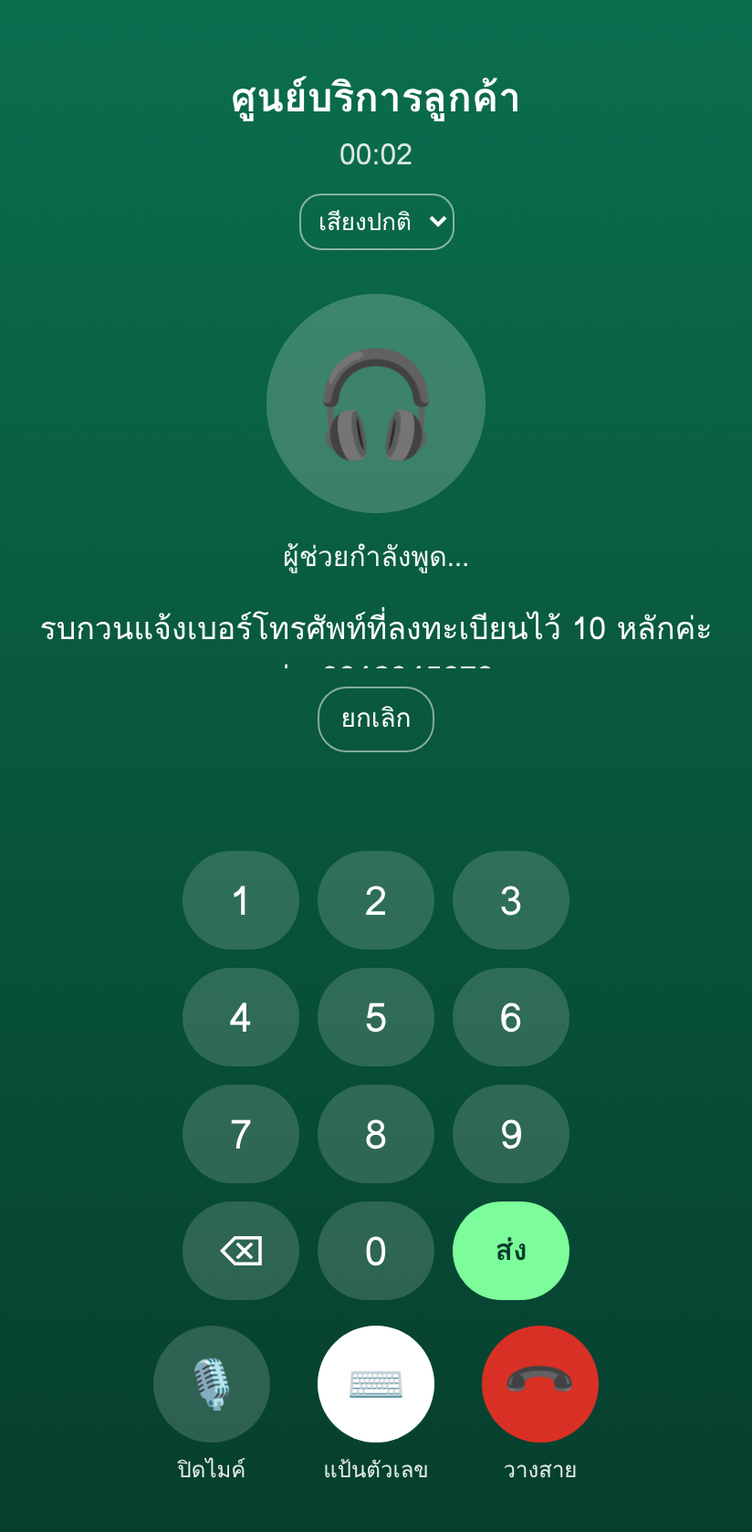
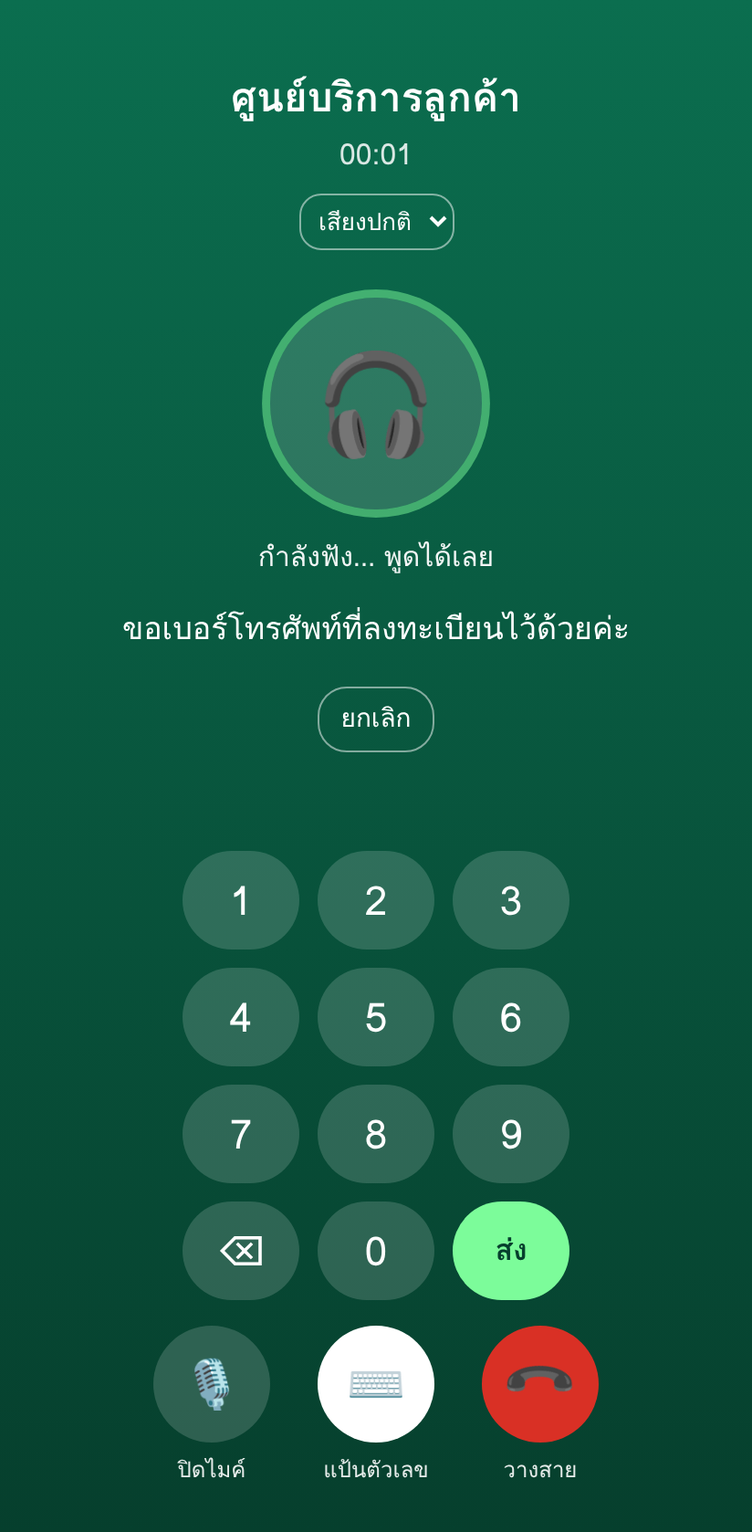
Shorter, more natural replies; no examples
Every reply rewritten the way a Thai call-center agent says it:
- greeting: "สวัสดีค่ะ บริษัท ตัวอย่าง จำกัด ยินดีให้บริการค่ะ ดิฉันเป็นผู้ช่วยอัตโนมัติ
  มีอะไรให้ช่วยคะ" (still says it is automated); no menu of examples
- prompts without "เช่น ...": "ขอเบอร์โทรศัพท์ที่ลงทะเบียนไว้ด้วยค่ะ"
- dates without the year when near ("15 ธันวาคม"); hours as people say
  them ("8 โมงเช้าถึง 2 ทุ่ม"); payment channels in one sentence
- order status in one line; the tracking code is shown but not read out
- call screen: "ยังอยู่ในสายไหมคะ" and a short goodbye
- speech: no pause right before ค่ะ/คะ/ครับ

Claude-Session: https://claude.ai/code/session_013CGzXzACjiugzPnevvmLpy

diff --git a/channels/webchat/static/index.html b/channels/webchat/static/index.html
@@ -550,10 +550,7 @@ async function runCall() {
   let reply = await call("api/start", {});
   // The bot's own wording tells us its voice: ครับ or ค่ะ/คะ.
   const [p, q] = reply.text.includes("ครับ") ? ["ครับ", "ครับ"] : ["ค่ะ", "คะ"];
-  const options = (reply.quick_replies || []).filter(x => !x.includes("เจ้าหน้าที่"));
-  const invite = ` พูดได้เลย${p} เช่น ${options.join(" ")} หรือคุยกับเจ้าหน้าที่`;
-  const spokenInvite = `. พูดได้เลย${p}. เช่น ${options.join(", ")}, หรือคุยกับเจ้าหน้าที่`;
-  let speech = { text: reply.text + invite, speech: reply.speech + spokenInvite };
+  let speech = reply;
   let silence = 0;
   add(speech.text, "bot");
   // A line the call itself adds: a pause after each sentence, like the bot's own replies.
@@ -578,9 +575,9 @@ async function runCall() {
     if (!msg) {                                  // silence
       if (muted || !keypad.hidden) continue;     // typing on the keypad is not silence
       silence++;
-      if (silence === 2) speech = line(`ยังอยู่ในสายไหม${q} ถ้าต้องการให้ช่วยเรื่องใด พูดได้เลย${p}`);
+      if (silence === 2) speech = line(`ยังอยู่ในสายไหม${q}`);
       if (silence >= 3) {
-        await say(line(`ไม่ได้ยินเสียง ขออนุญาตวางสายก่อน${p} ขอบคุณที่ติดต่อ${p}`));
+        await say(line(`ไม่ได้ยินเสียงเลย ขอวางสายก่อนนะ${q} ขอบคุณ${p}`));
         return hangUp();
       }
       continue;

diff --git a/callcenter_bot/bot.py b/callcenter_bot/bot.py
@@ -88,8 +88,8 @@ class Bot:
             return reply
 
     def welcome(self) -> Reply:
-        return Reply(f"สวัสดี{P} ยินดีต้อนรับสู่ศูนย์บริการลูกค้า {config.BRAND} "
-                     f"{ME}เป็นผู้ช่วยอัตโนมัติ ต้องการให้ช่วยเรื่องใด{Q}",
+        return Reply(f"สวัสดี{P} {config.BRAND} ยินดีให้บริการ{P} {ME}เป็นผู้ช่วยอัตโนมัติ "
+                     f"มีอะไรให้ช่วย{Q}",
                      config.MAIN_MENU, "greeting")
 
     def reset(self, session_id: str):
@@ -99,14 +99,14 @@ class Bot:
     # ---- turn logic ---------------------------------------------------------------------
     def _reply(self, s: Session, session_id: str, message: str) -> Reply:
         if not normalize(message):
-            return Reply(f"บอกสิ่งที่ต้องการให้ช่วยได้เลย{P}", config.MAIN_MENU)
+            return Reply(f"มีอะไรให้ช่วย{Q}", config.MAIN_MENU)
 
         intent, _ = detect(message)
         if intent == "agent":
             return self._handoff(s)
         if s.flow and is_cancel(message):
             s.leave_flow()
-            return Reply(f"ยกเลิกรายการแล้ว{P} มีเรื่องอื่นให้ช่วยไหม{Q}", config.MAIN_MENU, "cancel")
+            return Reply(f"ยกเลิกให้แล้ว{P} มีอะไรให้ช่วยอีกไหม{Q}", config.MAIN_MENU, "cancel")
         if s.flow:
             reply = self._continue_flow(s, message, intent)
             if reply:
@@ -132,17 +132,17 @@ class Bot:
             return None
         s.retries += 1
         if s.retries > config.MAX_MISUNDERSTOOD:
-            return Reply(f"ขออภัย{P} {ME}ยังไม่ได้ข้อมูลที่ต้องการ ต้องการคุยกับเจ้าหน้าที่ไหม{Q}",
+            return Reply(f"ขออภัย{P} ให้เจ้าหน้าที่ช่วยดูต่อไหม{Q}",
                          ["คุยกับเจ้าหน้าที่", "ยกเลิก"], s.flow)
         return self._ask(s)
 
     def _ask(self, s: Session) -> Reply:
         prompts = {
-            "need_phone": f"รบกวนแจ้งเบอร์โทรศัพท์ที่ลงทะเบียนไว้ 10 หลัก{P} เช่น 0812345678",
-            "need_id4": f"เพื่อยืนยันตัวตน รบกวนแจ้งเลข 4 ตัวท้ายของบัตรประชาชน{P}",
-            "need_order": f"รบกวนแจ้งเลขคำสั่งซื้อ 6 หลัก{P} เช่น 123456",
-            "need_problem": f"รบกวนเล่าอาการหรือปัญหาที่พบสั้น ๆ {P} เช่น อินเทอร์เน็ตหลุดบ่อยตั้งแต่เมื่อวาน",
-            "confirm_problem": f"รบกวนตอบ ใช่ หรือ ไม่ใช่{P}",
+            "need_phone": f"ขอเบอร์โทรศัพท์ที่ลงทะเบียนไว้ด้วย{P}",
+            "need_id4": f"ขอเลขบัตรประชาชน 4 ตัวท้าย เพื่อยืนยันตัวตนด้วย{P}",
+            "need_order": f"ขอเลขคำสั่งซื้อ 6 หลักด้วย{P}",
+            "need_problem": f"เล่าปัญหาที่พบให้ฟังหน่อย{P}",
+            "confirm_problem": f"ใช่ หรือไม่ใช่{Q}",
         }
         quick = ["ใช่", "ไม่ใช่"] if s.step == "confirm_problem" else ["ยกเลิก"]
         return Reply(prompts[s.step], quick, s.flow)
@@ -159,7 +159,7 @@ class Bot:
         phone = m.group()
         if not backend.find_customer(phone):
             s.retries += 1
-            return Reply(f"ไม่พบหมายเลข {mask_phone(phone)} ในระบบ{P} รบกวนตรวจสอบแล้วแจ้งอีกครั้ง{P}",
+            return Reply(f"ไม่พบเบอร์ {mask_phone(phone)} ในระบบ{P} ขอเบอร์อีกครั้งได้ไหม{Q}",
                          ["คุยกับเจ้าหน้าที่", "ยกเลิก"], s.flow)
         s.slots["phone"], s.step, s.retries = phone, "need_id4", 0
         return self._ask(s)
@@ -174,9 +174,9 @@ class Bot:
         s.verify_attempts += 1
         if s.verify_attempts >= config.MAX_VERIFY_ATTEMPTS:
             s.leave_flow()
-            return Reply(f"ข้อมูลยืนยันตัวตนไม่ถูกต้องหลายครั้ง เพื่อความปลอดภัยของบัญชี "
-                         f"{ME}ขอโอนให้เจ้าหน้าที่ดูแลต่อ{P}", [], "verify_failed", handoff=True)
-        return Reply(f"ข้อมูลไม่ตรงกับในระบบ{P} รบกวนตรวจสอบเลข 4 ตัวท้ายของบัตรประชาชนอีกครั้ง{P}",
+            return Reply(f"ยืนยันตัวตนไม่สำเร็จ{P} เพื่อความปลอดภัย ขอโอนให้เจ้าหน้าที่ดูแลต่อนะ{Q}",
+                         [], "verify_failed", handoff=True)
+        return Reply(f"เลขไม่ตรงกับในระบบ{P} ขอเลขบัตร 4 ตัวท้ายอีกครั้ง{P}",
                      ["ยกเลิก"], s.flow)
 
     def _step_need_order(self, s: Session, message: str) -> Optional[Reply]:
@@ -186,27 +186,28 @@ class Bot:
         order = backend.get_order(m.group())
         if not order:
             s.retries += 1
-            return Reply(f"ไม่พบคำสั่งซื้อเลข {m.group()} {P} รบกวนตรวจสอบแล้วแจ้งอีกครั้ง{P}",
+            return Reply(f"ไม่พบคำสั่งซื้อ {m.group()} {P} ขอเลขอีกครั้งได้ไหม{Q}",
                          ["คุยกับเจ้าหน้าที่", "ยกเลิก"], s.flow)
         s.leave_flow()
-        text = f"คำสั่งซื้อเลข {m.group()} สถานะ: {order['status']}"
-        if order["carrier"]:
-            text += f" จัดส่งโดย {order['carrier']}"
-            if order["tracking"]:
-                text += f" เลขพัสดุ {order['tracking']}"
-        if not order["eta"]:
-            text += f" {P}"
-        elif order["status"].startswith("จัดส่งสำเร็จ"):
-            text += f" เมื่อวันที่ {thai_date(order['eta'])} {P}"
-        else:
-            text += f" คาดว่าจะได้รับภายในวันที่ {thai_date(order['eta'])} {P}"
-        return Reply(text, ["ติดตามคำสั่งซื้ออื่น", "แจ้งปัญหา", "จบการสนทนา"], "order_status")
+        delivered = order["status"].startswith("จัดส่งสำเร็จ")
+        said = f"คำสั่งซื้อ {m.group()} {order['status']}"
+        if delivered and order["eta"]:
+            said += f"เมื่อวันที่ {thai_date(order['eta'])}"
+        elif order["carrier"]:
+            said += f"โดย {order['carrier']}"
+        said += P if "\u0e00" <= said[-1] <= "\u0e7f" else f" {P}"   # "...Express ค่ะ", "...สินค้าค่ะ"
+        if order["eta"] and not delivered:
+            said += f" คาดว่าจะได้รับวันที่ {thai_date(order['eta'])}{P}"
+        # The tracking number is shown, not read out: a long code is hard to follow by ear.
+        text = said + (f"\nเลขพัสดุ {order['tracking']}" if order["tracking"] else "")
+        return Reply(text, ["ติดตามคำสั่งซื้ออื่น", "แจ้งปัญหา", "จบการสนทนา"], "order_status",
+                     speech=speech_text(said, config.SAY_AS, keep_together=(config.BRAND,)))
 
     def _step_need_problem(self, s: Session, message: str) -> Optional[Reply]:
         if len(compact(message)) < 4:
             return None
         s.slots["problem"], s.step = strip_particles(normalize(message)), "confirm_problem"
-        return Reply(f"สรุปปัญหา: \"{s.slots['problem']}\" ถูกต้องไหม{Q}", ["ใช่", "ไม่ใช่"], s.flow)
+        return Reply(f"สรุปว่า {s.slots['problem']} ใช่ไหม{Q}", ["ใช่", "ไม่ใช่"], s.flow)
 
     def _step_confirm_problem(self, s: Session, message: str) -> Optional[Reply]:
         answer = yes_no(message)
@@ -217,8 +218,7 @@ class Bot:
             return self._ask(s)
         ticket = backend.create_ticket(s.verified_phone, s.slots["problem"])
         s.leave_flow()
-        return Reply(f"รับเรื่องเรียบร้อยแล้ว{P} หมายเลขเรื่องของคุณคือ {ticket} "
-                     f"เจ้าหน้าที่จะติดต่อกลับภายใน 24 ชั่วโมง{P}",
+        return Reply(f"รับเรื่องแล้ว{P} เลขที่เรื่อง {ticket} เจ้าหน้าที่จะติดต่อกลับภายใน 24 ชั่วโมง{P}",
                      ["เช็คยอดค้างชำระ", "จบการสนทนา"], "ticket_created")
 
     def _finish(self, s: Session) -> Reply:
@@ -227,15 +227,15 @@ class Bot:
         s.leave_flow()
         if flow == "check_balance":
             return self._balance(s)
-        return Reply(f"ยืนยันตัวตนเรียบร้อย{P} มีอะไรให้ช่วยไหม{Q}", config.MAIN_MENU)
+        return Reply(f"ยืนยันตัวตนแล้ว{P} มีอะไรให้ช่วย{Q}", config.MAIN_MENU)
 
     def _balance(self, s: Session) -> Reply:
         c = backend.find_customer(s.verified_phone)
         if c["balance"] > 0:
             text = f"คุณ{c['name']} มียอดค้างชำระ {baht(c['balance'])} "
-            text += f"ครบกำหนดชำระวันที่ {thai_date(c['due'])} {P}" if c["due"] else P
+            text += f"ครบกำหนดวันที่ {thai_date(c['due'])}{P}" if c["due"] else P
         else:
-            text = f"คุณ{c['name']} ไม่มียอดค้างชำระ{P} ขอบคุณที่ชำระตรงเวลา{P}"
+            text = f"คุณ{c['name']} ไม่มียอดค้างชำระ{P}"
         return Reply(text, ["ช่องทางชำระเงิน", "แจ้งปัญหา", "จบการสนทนา"], "check_balance")
 
     # ---- topics -------------------------------------------------------------------------
@@ -260,28 +260,26 @@ class Bot:
         return self._ask(s)
 
     def _on_payment_channels(self, s, message):
-        lines = "\n".join(f"{i}. {c}" for i, c in enumerate(config.PAYMENT_CHANNELS, 1))
-        return Reply(f"ชำระเงินได้ทางช่องทางต่อไปนี้{P}\n{lines}",
+        *first, last = config.PAYMENT_CHANNELS
+        return Reply(f"ชำระได้ทาง{' '.join(first)} หรือ{last}{P}",
                      ["เช็คยอดค้างชำระ", "จบการสนทนา"], "payment_channels")
 
     def _on_hours(self, s, message):
-        return Reply(f"เจ้าหน้าที่ให้บริการ{config.HOURS_TEXT} ส่วนผู้ช่วยอัตโนมัติให้บริการตลอด 24 ชั่วโมง{P}",
+        return Reply(f"เจ้าหน้าที่ให้บริการ{config.HOURS_TEXT}{P}",
                      config.MAIN_MENU, "hours")
 
     def _on_thanks(self, s, message):
-        return Reply(f"ยินดี{P} มีอะไรให้ช่วยเพิ่มเติมไหม{Q}", config.MAIN_MENU + ["จบการสนทนา"], "thanks")
+        return Reply(f"ยินดี{P} มีอะไรให้ช่วยอีกไหม{Q}", config.MAIN_MENU + ["จบการสนทนา"], "thanks")
 
     def _on_goodbye(self, s, message):
-        return Reply(f"ขอบคุณที่ใช้บริการ {config.BRAND} {P} ขอให้เป็นวันที่ดี{P}", [], "goodbye", end=True)
+        return Reply(f"ขอบคุณที่ติดต่อนะ{Q} สวัสดี{P}", [], "goodbye", end=True)
 
     def _on_agent(self, s, message):
         return self._handoff(s)
 
     def _handoff(self, s: Session) -> Reply:
         s.leave_flow()
-        return Reply(f"{ME}กำลังโอนสายให้เจ้าหน้าที่ รบกวนรอสักครู่{P} "
-                     f"(เวลาทำการ: {config.HOURS_TEXT} หรือโทร {config.HOTLINE})",
-                     [], "agent", handoff=True)
+        return Reply(f"กำลังโอนให้เจ้าหน้าที่ รอสักครู่นะ{Q}", [], "agent", handoff=True)
 
     def _not_understood(self, s: Session, message: str) -> Reply:
         if self.fallback:
@@ -291,9 +289,9 @@ class Bot:
                 return Reply(text, config.MAIN_MENU, "fallback")
         s.misunderstood += 1
         if s.misunderstood >= config.MAX_MISUNDERSTOOD:
-            return Reply(f"ขออภัย{P} {ME}ยังไม่เข้าใจคำถามนี้ ต้องการให้เจ้าหน้าที่ช่วยไหม{Q}",
+            return Reply(f"ขออภัย{P} ยังไม่เข้าใจ ให้เจ้าหน้าที่ช่วยไหม{Q}",
                          ["คุยกับเจ้าหน้าที่"] + config.MAIN_MENU[:3], "not_understood")
-        return Reply(f"ขออภัย{P} {ME}ยังไม่เข้าใจ รบกวนเลือกหัวข้อด้านล่าง หรือพูดหรือพิมพ์ใหม่อีกครั้ง{P}",
+        return Reply(f"ขออภัย{P} ช่วยบอกอีกครั้งได้ไหม{Q}",
                      config.MAIN_MENU, "not_understood")
 
     def _expire_old_sessions(self):

diff --git a/tests/test_db.py b/tests/test_db.py
@@ -20,13 +20,13 @@ class DatabaseTest(unittest.TestCase):
 
     def test_test_number_0636538939(self):
         r = self.say("เช็คยอด", "063-653-8939", "8939")
-        self.assertIn("คุณทดสอบ มียอดค้างชำระ 520.75 บาท ครบกำหนดชำระวันที่ 15 ธันวาคม 2569", r.text)
+        self.assertIn("คุณทดสอบ มียอดค้างชำระ 520.75 บาท ครบกำหนดวันที่ 15 ธันวาคม", r.text)
 
     def test_bot_reads_what_the_admin_saved(self):
         db.save_customer({"phone": "091-234-5678", "name": "มานี", "id_last4": "9999",
                           "balance": "2,000.25", "due_date": "2026-12-31"})
         r = self.say("เช็คยอด", "0912345678", "9999")
-        self.assertIn("คุณมานี มียอดค้างชำระ 2,000.25 บาท ครบกำหนดชำระวันที่ 31 ธันวาคม 2569", r.text)
+        self.assertIn("คุณมานี มียอดค้างชำระ 2,000.25 บาท ครบกำหนดวันที่ 31 ธันวาคม", r.text)
 
     def test_balance_change_shows_at_once(self):
         db.save_customer({"phone": "0812345678", "name": "สมชาย", "id_last4": "1234", "balance": 0})
@@ -46,7 +46,7 @@ class DatabaseTest(unittest.TestCase):
     def test_order_without_date_or_tracking(self):
         db.save_order({"order_id": "777777", "status": "รอชำระเงิน"})
         r = self.say("ติดตามพัสดุ", "777777")
-        self.assertEqual(r.text, "คำสั่งซื้อเลข 777777 สถานะ: รอชำระเงิน ค่ะ")
+        self.assertEqual(r.text, "คำสั่งซื้อ 777777 รอชำระเงินค่ะ")
 
     def test_rename_phone_keeps_orders(self):
         db.save_customer({"phone": "0899999999", "name": "สมชาย", "id_last4": "1234", "balance": 1},
@@ -88,7 +88,7 @@ class SpeechTextTest(unittest.TestCase):
         "สวัสดีค่ะ ยินดีต้อนรับ": "สวัสดีค่ะ. ยินดีต้อนรับ",
         "คุณสมชาย มียอดค้างชำระ": "คุณสมชาย, มียอดค้างชำระ",
         "ต่อไปนี้ค่ะ\n1. แอปธนาคาร\n2. 7-Eleven": "ต่อไปนี้ค่ะ. ข้อ 1 แอปธนาคาร. ข้อ 2 เซเว่นอีเลฟเว่น",
-        "สแกน 7-Eleven ที่ร้าน": "สแกน เซเว่นอีเลฟเว่น ที่ร้าน",
+        "สแกน 7-Eleven ที่ร้าน": "สแกน เซเว่นอีเลฟเว่น, ที่ร้าน",
         "บริษัท ตัวอย่าง จำกัด ยินดี": "บริษัท ตัวอย่าง จำกัด, ยินดี",
     }
 

diff --git a/callcenter_bot/thai_format.py b/callcenter_bot/thai_format.py
@@ -6,8 +6,13 @@ MONTHS = [
 ]
 
 
-def thai_date(d) -> str:
-    """date(2026, 12, 5) -> "5 ธันวาคม 2569" (Buddhist year)."""
+def thai_date(d, today=None) -> str:
+    """date(2026, 12, 5) -> "5 ธันวาคม 2569" (Buddhist year). Within about six months of today the
+    year is left out, as people say it: "5 ธันวาคม"."""
+    from datetime import date
+    today = today or date.today()
+    if abs((d - today).days) <= 180:
+        return f"{d.day} {MONTHS[d.month - 1]}"
     return f"{d.day} {MONTHS[d.month - 1]} {d.year + 543}"
 
 
@@ -79,7 +84,7 @@ def speech_text(text: str, say_as=None, keep_together=()) -> str:
     for phrase in keep_together:
         text = text.replace(phrase, phrase.replace(" ", _NBSP))
     for written, spoken in (say_as or {}).items():   # a name inside a phrase: no pause around it
-        text = _re.sub(f" ?{_re.escape(written)} ?", lambda m: m.group().replace(written, spoken)
+        text = _re.sub(f" ?{_re.escape(written)}", lambda m: m.group().replace(written, spoken)
                        .replace(" ", _NBSP), text)
     text = _re.sub(r"\b\d{3}-x{3}-(\d{4})\b", "ที่ลงท้ายด้วย ⟦\\1⟧", text)            # masked phone
     text = _re.sub(r"^\s*(\d+)\.\s+", r"ข้อ \1 ", text, flags=_re.M)                # "1. ..." list items
@@ -91,7 +96,7 @@ def speech_text(text: str, say_as=None, keep_together=()) -> str:
     # Pauses, before numbers are spelled out (so the digit words are not split up).
     text = _re.sub(r"(ค่ะ|คะ|ครับ|จ้ะ|จ้า)\s*\n\s*|(ค่ะ|คะ|ครับ|จ้ะ|จ้า) ", lambda m: (m.group(1) or m.group(2)) + ". ", text)
     text = _re.sub(r"\s*\n\s*", ". ", text)
-    text = _re.sub(f"(?<=[{_THAI}]) (?=[{_THAI}])", ", ", text)
+    text = _re.sub(f"(?<=[{_THAI}]) (?=[{_THAI}])(?!(?:ค่ะ|คะ|ครับ|จ้ะ|จ้า)(?:[.,\\s]|$))", ", ", text)
     # Codes said one character at a time: phone/order/ticket/tracking numbers.
     # ⟪ marks the end of a spelled number: a pause there when the sentence goes on in Thai.
     text = _re.sub(r"⟦(\d+)⟧", lambda m: " ".join(_DIGIT[int(c)] for c in m.group(1)) + "⟪", text)

diff --git a/tests/test_genesys.py b/tests/test_genesys.py
@@ -36,7 +36,7 @@ class ConnectorTest(unittest.TestCase):
 
         out = self.send("อยากเช็คยอดค้างชำระครับ")
         self.assertEqual(out["parameters"]["expectsDigits"], "true")
-        self.assertIn("ศูนย์ แปด หนึ่ง", out["replymessages"][0]["text"])  # example number read digit by digit
+        self.assertIn("เบอร์โทรศัพท์", out["replymessages"][0]["text"])
 
         out = self.send("ศูนย์หกสาม หกห้าสาม แปดเก้าสามเก้า")            # how speech recognition may write it
         self.assertIn("4 ตัวท้าย", out["replymessages"][0]["text"])
@@ -55,8 +55,14 @@ class ConnectorTest(unittest.TestCase):
         self.assertEqual((out["botState"], out["intent"]), ("COMPLETE", "end-conversation"))
 
     def test_text_format_for_chat_flows(self):
-        out = self.send("เช็คยอด", replyFormat="text")
-        self.assertIn("0812345678", out["replymessages"][0]["text"])   # as written, for a chat window
+        out = self.send("ติดตามพัสดุ 123456", replyFormat="text")
+        self.assertIn("คำสั่งซื้อ 123456", out["replymessages"][0]["text"])   # as written, for a chat window
+        self.assertIn("KEX0099887766", out["replymessages"][0]["text"])
+
+    def test_speech_format_for_voice_flows(self):
+        out = self.send("ติดตามพัสดุ 123456")
+        self.assertIn("หนึ่ง สอง สาม, สี่ ห้า หก", out["replymessages"][0]["text"])  # digit by digit
+        self.assertNotIn("KEX", out["replymessages"][0]["text"])   # long tracking code is not read out
 
     def test_sessions_are_separate(self):
         self.send("เช็คยอด", session="a")

diff --git a/callcenter_bot/config.py b/callcenter_bot/config.py
@@ -7,14 +7,14 @@ STATEMENT_PARTICLE = "ค่ะ"
 QUESTION_PARTICLE = "คะ"
 SELF = "ดิฉัน"  # "ผม" for a male voice
 
-HOURS_TEXT = "จันทร์ถึงศุกร์ 08:00–20:00 น. และเสาร์–อาทิตย์ 09:00–18:00 น."
+HOURS_TEXT = "จันทร์ถึงศุกร์ 8 โมงเช้าถึง 2 ทุ่ม เสาร์อาทิตย์ 9 โมงเช้าถึง 6 โมงเย็น"
 HOTLINE = "02-123-4567"
 
-PAYMENT_CHANNELS = [
-    "แอปธนาคารผ่านพร้อมเพย์ หรือสแกน QR บนใบแจ้งหนี้",
+PAYMENT_CHANNELS = [          # read as one sentence: keep each short
+    "แอปธนาคารหรือพร้อมเพย์",
     "เคาน์เตอร์เซอร์วิส 7-Eleven",
-    "หักบัญชีธนาคารอัตโนมัติ",
-    "บัตรเครดิตผ่านเว็บไซต์",
+    "หักบัญชีอัตโนมัติ",
+    "บัตรเครดิตบนเว็บไซต์",
 ]
 
 # Names text-to-speech mispronounces, and how they should sound.

diff --git a/tests/test_bot.py b/tests/test_bot.py
@@ -66,7 +66,7 @@ class ConversationTest(unittest.TestCase):
     def test_balance_needs_verification(self):
         r = self.say("เช็คยอดค้างชำระ", "081-234-5678", "1234")
         self.assertIn("1,250.50 บาท", r.text)
-        self.assertIn("5 ธันวาคม 2569", r.text)
+        self.assertIn("ครบกำหนดวันที่ 5 ธันวาคม", r.text)
         # Verified once per session: asking again answers straight away.
         self.assertIn("1,250.50", self.say("ดูยอดอีกที").text)
 
@@ -86,7 +86,7 @@ class ConversationTest(unittest.TestCase):
 
     def test_unknown_phone(self):
         r = self.say("เช็คยอด", "0800000000")
-        self.assertIn("ไม่พบหมายเลข 080-xxx-0000", r.text)
+        self.assertIn("ไม่พบเบอร์ 080-xxx-0000", r.text)
 
     def test_balance_by_voice(self):
         r = self.say("อยากเช็คยอดค้างชำระ", "ศูนย์แปดหนึ่ง สองสามสี่ ห้าหกเจ็ดแปด", "หนึ่ง สอง สาม สี่")

diff --git a/channels/genesys/connector.py b/channels/genesys/connector.py
@@ -37,7 +37,7 @@ INTENT_HANDOFF = "live-agent-handoff"
 INTENT_END = "end-conversation"
 log = logging.getLogger("genesys")
 
-APOLOGY = "ขออภัยค่ะ ระบบขัดข้องชั่วคราว ขอโอนสายให้เจ้าหน้าที่ดูแลต่อนะคะ"
+APOLOGY = "ขออภัยค่ะ ระบบขัดข้อง ขอโอนให้เจ้าหน้าที่นะคะ"
 
 
 def _response(text: str, state: str, intent: str, parameters: dict = None) -> dict:
